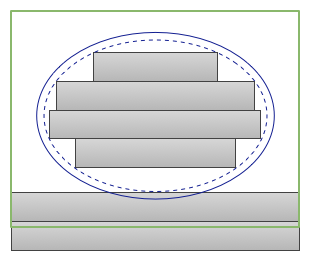
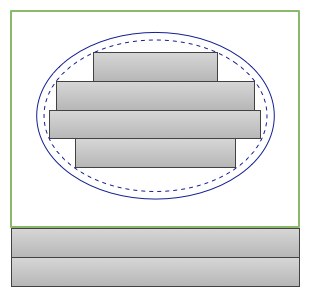
[css-exclusions] fix shape-inside overflow

Changed region(s): [[0.0289, 0.092, 0.9839, 0.8889], [0.0289, 0.9502, 0.9839, 0.9808], [0.0289, 0.0307, 0.9839, 0.0613]]

diff --git a/css-exclusions/Exclusions.src.html b/css-exclusions/Exclusions.src.html
@@ -1660,34 +1660,16 @@ div {
         <p class="caption">Effect of shape-inside on inline content.</p>
     </div>
 
-    <p>Overflow content can overlap 
-        the after edge of a wrapping area, 
-        and overflow content can be displayed 
-        below that edge. 
-        When content overflows in the block direction, 
-        the last line in the wrapping area determines its width(s) 
-        by finding the minimum shape width(s) 
-        in the remaining wrapping area 
-        between the line's before edge 
-        and the after edge of the wrapping area. 
-        This can result 
-        in the line intersecting the wrapping area's after edge, 
-        or a zero-width line 
-        if (for instance) the wrapping area's after edge 
-        is a continuous curve. 
-        In degenerate cases, 
-        there may be no content 
-        that fits inside the wrapping area. 
-        Further overflow is laid out 
-        below the after edge 
-        of the wrapping area 
-        as if the wrapping context 
-        did not apply.</p>
+    <p>Overflow content avoids 
+        the exclusion area added 
+        by 'shape-inside' and 'shape-padding' 
+        (as well as any other exclusion areas 
+        in the element's wrapping context).</p>
 
     <div class='figure'>
             <img alt="Overflow interacting with rounded rect" style="display:inline-block;vertical-align:top" src="images/rounded-rect-overflow.png"/>
             <img alt="Overflow interacting with ellipse" style="display:inline-block;vertical-align:top" src="images/ellipse-overflow.png"/>
-        <p class="caption">Overflow interacting with the after edge of wrapping contexts defined by 'shape-inside' and 'shape-padding'.</p>
+        <p class="caption">Overflow interacting with exclusion areas defined by 'shape-inside' and 'shape-padding'.</p>
     </div>
         
     <!-- End section "The shape-inside property" -->
@@ -1975,6 +1957,7 @@ div {
       
       <h3 class="no-num" >Since <a href="http://www.w3.org/TR/2012/WD-css3-exclusions-20120503/">May 3rd 2012</a></h3>
       <ul>
+          <li>Changed shape-inside overflow diagrams to show exclusion behavior</li>
           <li>Changed shape-inside to contribute to the wrapping context</li>
           <li>Defined exclusion edges relative to wrapping content's writing mode</li>
           <li>Made use of start, end, before and after consistent</li>

diff --git a/css-exclusions/Overview.html b/css-exclusions/Overview.html
@@ -2112,24 +2112,19 @@ div {
    <p class=caption>Effect of shape-inside on inline content.
   </div>
 
-  <p>Overflow content can overlap the after edge of a wrapping area, and
-   overflow content can be displayed below that edge. When content overflows
-   in the block direction, the last line in the wrapping area determines its
-   width(s) by finding the minimum shape width(s) in the remaining wrapping
-   area between the line's before edge and the after edge of the wrapping
-   area. This can result in the line intersecting the wrapping area's after
-   edge, or a zero-width line if (for instance) the wrapping area's after
-   edge is a continuous curve. In degenerate cases, there may be no content
-   that fits inside the wrapping area. Further overflow is laid out below the
-   after edge of the wrapping area as if the wrapping context did not apply.
+  <p>Overflow content avoids the exclusion area added by ‘<a
+   href="#shape-inside"><code class=property>shape-inside</code></a>’ and
+   ‘<a href="#shape-padding"><code
+   class=property>shape-padding</code></a>’ (as well as any other exclusion
+   areas in the element's wrapping context).
 
   <div class=figure> <img alt="Overflow interacting with rounded rect"
    src="images/rounded-rect-overflow.png"
    style="display:inline-block;vertical-align:top"> <img
    alt="Overflow interacting with ellipse" src="images/ellipse-overflow.png"
    style="display:inline-block;vertical-align:top">
-   <p class=caption>Overflow interacting with the after edge of wrapping
-    contexts defined by ‘<a href="#shape-inside"><code
+   <p class=caption>Overflow interacting with exclusion areas defined by
+    ‘<a href="#shape-inside"><code
     class=property>shape-inside</code></a>’ and ‘<a
     href="#shape-padding"><code class=property>shape-padding</code></a>’.
   </div>
@@ -2927,6 +2922,8 @@ div {
    2012</a></h3>
 
   <ul>
+   <li>Changed shape-inside overflow diagrams to show exclusion behavior
+
    <li>Changed shape-inside to contribute to the wrapping context
 
    <li>Defined exclusion edges relative to wrapping content's writing mode
